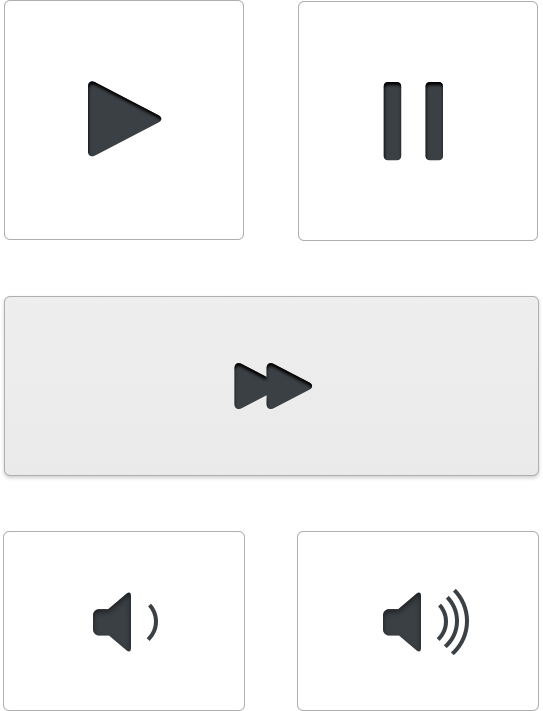
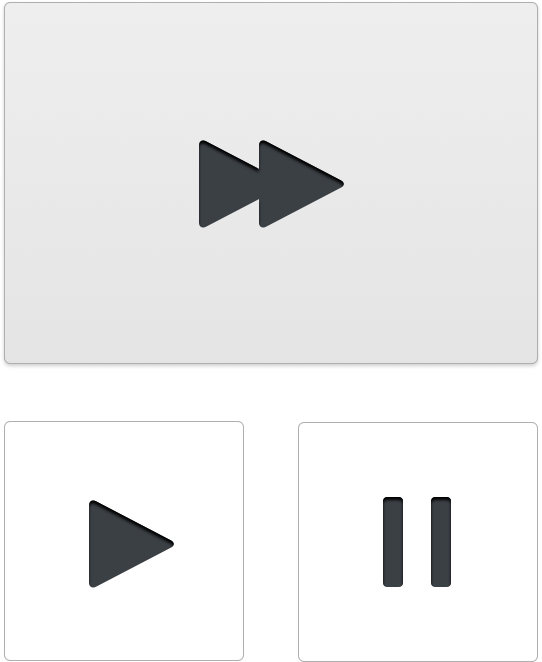
tweaks

diff --git a/app/index.html b/app/index.html
@@ -85,7 +85,7 @@
 
     <div class="controlset" data-icon-id="3">
 
-        <img style="left: 0px; margin-top: 0px; " width=260 src="img/spotify_controls_mock.png"/>
+        <img style="left: -8px; margin-top: 0px; " width=278 src="img/spotify_controls_mock.png"/>
        
     </div>
 
